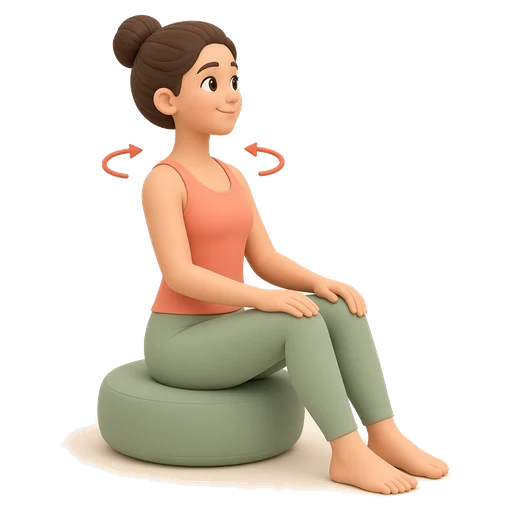
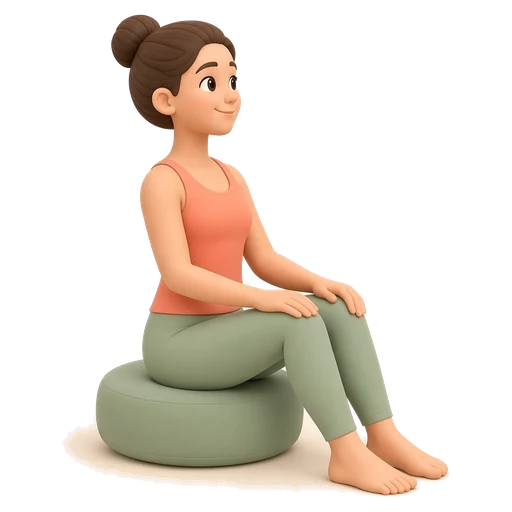
Replace eight weak frame pairs and show their active pose on B.
The new drawings put the rest pose on A and the effort on B, so heel
slides, shoulder rolls, jaw jut, and tongue press no longer play backwards.
Humming breath stays flipped because the hum is the exhale.

diff --git a/src/domain/frames.test.ts b/src/domain/frames.test.ts
@@ -38,10 +38,22 @@ describe('frame direction', () => {
     expect(orientPose('glute-bridge', up)).toBeCloseTo(0, 5);
     expect(shownPose('glute-bridge', up)).toBeCloseTo(0, 5);
     expect(orientPose('glute-bridge', 0)).toBeCloseTo(1, 5);
-    expect(orientPose('heel-slides', 1)).toBe(0);
     expect(orientPose('ankle-pumps', 1)).toBe(0);
     expect(orientPose('squat-dumbbell', 1)).toBe(1);
     expect(orientPose('neck-tilt', 1)).toBe(1);
+  });
+
+  it('shows frame B on the active cue for the replaced pairs', () => {
+    const up = repPose(notes, 1);
+    for (const id of ['heel-slides', 'shoulder-rolls', 'belly-draw-in']) {
+      expect(orientPose(id, up)).toBe(1);
+    }
+    expect(orientPose('jaw-jut', holdPose(0.5, 8, 2))).toBe(1);
+    expect(orientPose('tongue-press', holdPose(0.5, 8, 2))).toBe(1);
+    expect(orientPose('short-plank', holdPose(4, 30, 0))).toBe(1);
+    expect(orientPose('breath-46', breathPose('inhale', 1))).toBe(1);
+    expect(orientPose('humming-breath', breathPose('exhale', 1))).toBe(1);
+    expect(orientPose('humming-breath', breathPose('inhale', 1))).toBe(0);
   });
 });
 

diff --git a/src/domain/frames.ts b/src/domain/frames.ts
@@ -17,10 +17,11 @@ export const SUBTLE_FRAME_IDS = new Set([
 /**
  * Drawings where frame A is the up / active pose and frame B is the return.
  * The chart eases toward 1 on the up cue, so these play as 1 − pose.
+ * Humming breath is the exception that is not a rep: the hum is the exhale,
+ * and the breath clock would show frame A on the way out.
  */
 export const REVERSED_FRAME_IDS = new Set([
   'glute-bridge',
-  'heel-slides',
   'dead-bug',
   'bird-dog',
   'side-leg-raise',
@@ -28,11 +29,9 @@ export const REVERSED_FRAME_IDS = new Set([
   'alternating-leg-raises',
   'knees-to-chest',
   'knee-rocks',
-  'shoulder-rolls',
   'ankle-pumps',
-  'jaw-jut',
-  'tongue-press',
   'vowel-faces',
+  'humming-breath',
 ]);
 
 /** How long a pose takes to replace the other one. The rest of the rep holds. */
